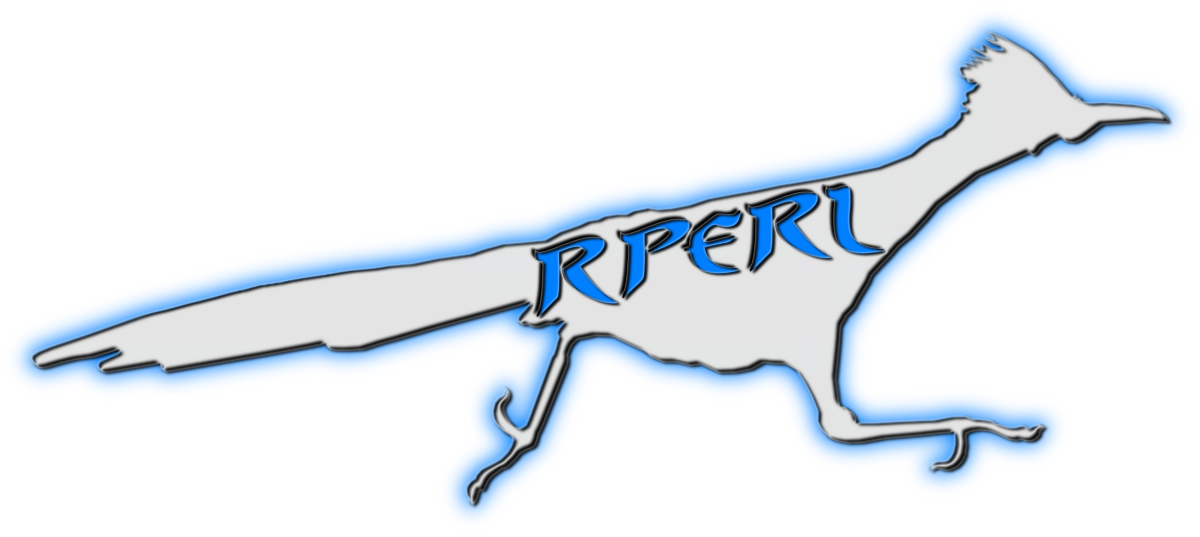
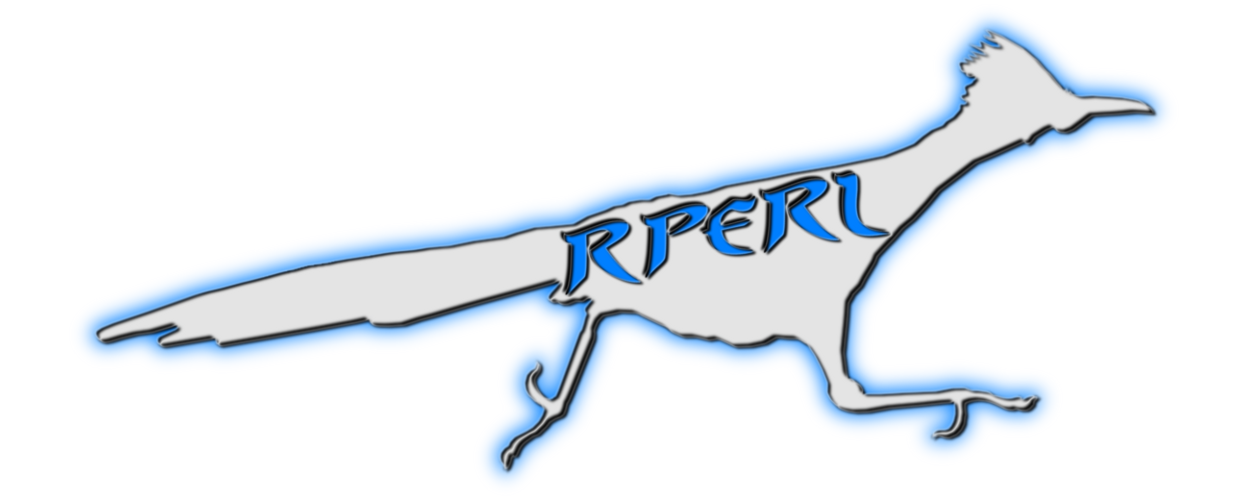
Update Home Page

Changed region(s): [[0.0, 0.03, 0.9867, 0.96]]

diff --git a/index.html b/index.html
@@ -21,16 +21,20 @@
       <div class="inner">
         <h1>RPerl.org</h1>
         <h2>Running Perl 5.  Faster.</h2>
-<!-- #        <img class="centered_h" src="images/roadrunner.png" width="100%"> -->
-        <img class="centered_h" src="images/roadrunner.png">
-        <a href="https://github.com/wbraswell/rperl" class="button_github"><small>View project on</small>GitHub</a>
+        <img class="centered_h" src="images/roadrunner.png" width="100%">
+        <a href="https://github.com/wbraswell/rperl" class="button_github"><small>Free & Open Source on&nbsp;</small>GitHub</a>
       </div>
     </header>
 
     <div id="content-wrapper">
       <div class="inner clearfix">
         <section id="main-content">
-          <h1> <a name="the-rperl-compiler" class="anchor" href="#the-rperl-compiler"><span class="octicon octicon-link"></span></a>Latest News</h1>
+          <h1> <a name="welcome" class="anchor" href="#welcome"><span class="octicon octicon-link"></span></a>Welcome!</h1>
+            <p>You've found the official Internet home of the RPerl compiler software.</p>
+            <p>If this is your first visit, please click the FAQ question mark button on the right.</p><br><br>
+          <h1> <a name="latest_news" class="anchor" href="#latest_news"><span class="octicon octicon-link"></span></a>Latest News</h1>
+            <h2>October 15th, 2013: Frequently Asked Questions Added</h2>
+                <p>Look for the FAQ question mark button on the right.</p>
             <h2>October 3rd, 2013: RPerl Website Goes Live!</h2>
                 <p>We are proud to annouce the initial beta release of the RPerl.org website.  Thank you for visiting!</p>
             <h2>June 30th, 2013: RPerl Demo Reaches 200x Speedup</h2>
@@ -38,31 +42,14 @@
             <h2>June 3rd-5th, 2013: YAPC Perl Conference In Austin</h2>
                 <p>The whole Perl 11 crew came together in Austin for the annual YAPC::NA conference.  The need for RPerl is strongly reinforced.</p>
             <h2>January 1st, 2013: RPerl Development Begins</h2>
-                <p>RPerl is a New Year's Resolution.  Maybe it will also be a Christmas present.</p>
-
-
-          <h1> <a name="the-rperl-compiler" class="anchor" href="#the-rperl-compiler"><span class="octicon octicon-link"></span></a>The RPerl Compiler</h1>
-
-<p>RPerl is an implementation of the Perl 11 philosophy (perl11.org) in the form of an optimizing Perl 5 compiler.</p>
-
-<p>RPerl translates a low-magic subset of the Perl 5 language into equivalent C/C++ code utilizing Perl data structures, capable of being called directly from Perl 5 code using the Inline::C and Inline::CPP modules.  Any existing C/C++ compiler may be used to compile and optimize the resulting C/C++ code.</p>
-
-<p>RPerl follows the naming convention of RPython, in that each implements a restricted sub-set of their respective parent language, thus RPerl stands for Restricted Perl.  It is hoped that RPerl will also eventually come to stand for Revolutionary Perl. </p>
-
-<p>The RPerl development board may be found on Trello here:</p>
-
-<p><a href="https://trello.com/board/austin-pm-rperl-development/51b6b97215f60f9460006538">https://trello.com/board/austin-pm-rperl-development/51b6b97215f60f9460006538</a></p>
-
-<p>The RPerl source code repository may be found on Github here:</p>
-
-<p><a href="https://github.com/wbraswell/rperl/">https://github.com/wbraswell/rperl/</a></p>
-
-<p>RPerl is copyright (c) 2013, William N. Braswell, Jr.
-Copyleft, All Rights Reversed.</p>
-
-<p>RPerl is made available under the same terms as Perl itself:</p>
-
-<p><a href="http://dev.perl.org/licenses/">http://dev.perl.org/licenses/</a></p>
+                <p>RPerl is a New Year's Resolution.  Maybe it will also be a Christmas present.</p><br><br>
+          <h1> <a name="contact_us" class="anchor" href="#contact_us"><span class="octicon octicon-link"></span></a>Contact Us</h1>
+            <h2>E-Mail</h2>
+                <p>willthechill AT hushmail DOT com</p>
+            <h2>Perl Monks</h2>
+                <p>Send private /msg to <a href="http://perlmonks.com/?node_id=626079">Will_the_Chill</a></p>
+            <h2>IRC</h2>
+                <p>Will_the_Chill in #perl11 on irc.perl.org</p>
         </section>
 
         <aside id="sidebar">
@@ -76,10 +63,16 @@ Copyleft, All Rights Reversed.</p>
           <hr/>
           <a href="the_book_of_rperl.html" class="button_the_book_of_rperl">
             The Book Of RPerl
+          <a href="https://trello.com/board/austin-pm-rperl-development/51b6b97215f60f9460006538" class="button_blank">
+            <div class="centered_outer"><div class="centered_inner"><p>
+            <small>Project Management on</small>
+            Trello.com
+            </p></div></div>
+          </a>
           </a>
           <a href="http://perl11.org" class="button_blank">
             <div class="centered_outer"><div class="centered_inner"><p>
-            <small>Visit</small>
+            <small>Affiliated with</small>
             Perl 1 1 .org
             </p></div></div>
           </a>

diff --git a/faq.html b/faq.html
@@ -21,8 +21,8 @@
       <div class="inner">
         <h1>Frequently Asked Questions</h1>
         <h2>Everything You Ever Wanted To Know About RPerl.</h2>
-        <img class="centered_h" src="images/question_mark.png">
-        <a href="https://github.com/wbraswell/rperl" class="button_github"><small>View project on</small>GitHub</a>
+        <img class="centered_h" src="images/question_mark.png" width="100%">
+        <a href="https://github.com/wbraswell/rperl" class="button_github"><small>Free & Open Source on&nbsp;</small>GitHub</a>
       </div>
     </header>
 
@@ -63,7 +63,7 @@ A: Normal computer users will like running RPerl apps because it will empower th
 
 <a name="faq_what" class="anchor" href="#faq_what"></a>
 <h3>Q: What is RPerl?</h3>
-A: RPerl is a computer programming language, based on the popular Perl 5 programming language.  RPerl gives software developers a compiler to make their apps run really fast on parallel computing platforms like multi-core processors, the cloud, clusters, and supercomputers.  RPerl stands for Restricted Perl, in that we restrict our use of Perl to those parts which can be made to run fast.  RPerl stands for Revolutionary Perl, in that we hope RPerl's speed will revolutionize the software development industry.  RPerl might even stand for Roadrunner Perl, in that it RUNS REALLY FAST.
+A: RPerl is a computer programming language, based on the popular Perl 5 programming language.  RPerl gives software developers a compiler to make their apps run really fast on parallel computing platforms like multi-core processors, the cloud, clusters, and supercomputers.  RPerl stands for Restricted Perl, in that we restrict our use of Perl to those parts which can be made to run fast.  RPerl also stands for Revolutionary Perl, in that we hope RPerl's speed will revolutionize the software development industry.  RPerl might even stand for Roadrunner Perl, in that it RUNS REALLY FAST.
 
 <a name="faq_when" class="anchor" href="#faq_when"></a>
 <h3>Q: When will RPerl v1.0 be released?</h3>
@@ -162,7 +162,7 @@ A: We are currently seeking funding in the form of private investment and grants
           </a>
           <a href="http://perl11.org" class="button_blank">
             <div class="centered_outer"><div class="centered_inner"><p>
-            <small>Visit</small>
+            <small>Affiliated with</small>
             Perl 1 1 .org
             </p></div></div>
           </a>

diff --git a/stylesheets/stylesheet.css b/stylesheets/stylesheet.css
@@ -90,7 +90,7 @@ header h2 {
   font-weight: normal;
   line-height: 1.3;
 /*  width: 540px; */
-  width: 840px;
+/*  width: 840px; */
   letter-spacing: 0;
 }
 
@@ -98,7 +98,8 @@ header h2 {
   text-align: justify;  /* justify all text unless otherwise listed as left-align  */
   position: relative;
 /*  width: 940px; */
-  width: 1240px;
+/*  width: 1240px; */
+  width: 1250px;
   margin: 0 auto;
 }
 
@@ -109,7 +110,7 @@ header h2 {
 
 #main-content {
 /*  width: 690px; */
-  width: 990px;
+  width: 975px;
   float: left;
 }
 
@@ -118,8 +119,8 @@ header h2 {
 }
 
 aside#sidebar {
-  width: 200px;
-  padding-left: 20px;
+  width: 250px;
+  padding-left: 10px;
   min-height: 504px;
   float: right;
   background: transparent url(../images/sidebar-bg.jpg) 0 0 no-repeat;
@@ -228,14 +229,14 @@ aside a.button_download {
 
 /* BUTTON, HOME */
 a.button_home {
-  width: 200px;
-/*  height: 95px; */
+  width: 250px;
+/*  height: 100px; */
 /*  line-height: 1.2; */
   font-size: 21px;
   color: #000;
 /*  padding-left: 10px; /* replaced by text-align:center; below */
   text-align: center;
-  padding-top: 90px;
+  padding-top: 100px;
   font-family: 'Architects Daughter', 'Helvetica Neue', Helvetica, Arial, serif; 
 }
 a.button_home small {
@@ -256,8 +257,8 @@ aside a.button_home {
 
 /* BUTTON, FAQ */
 a.button_faq {
-  width: 200px;
-/*  height: 95px; */
+  width: 250px;
+/*  height: 100px; */
 /*  line-height: 1.2; */
   font-size: 21px;
   color: #000;
@@ -284,14 +285,14 @@ aside a.button_faq {
 
 /* BUTTON, THE BOOK OF RPERL */
 a.button_the_book_of_rperl {
-  width: 200px;
-/*  height: 115px; */
+  width: 250px;
+/*  height: 100px; */
 /*  line-height: 1.2; */
   font-size: 21px;
   color: #000;
 /*  padding-left: 10px; /* replaced by text-align:center; below */
   text-align: center;
-  padding-top: 115px;
+  padding-top: 100px;
   font-family: 'Architects Daughter', 'Helvetica Neue', Helvetica, Arial, serif; 
 }
 a.button_the_book_of_rperl small {

diff --git a/the_book_of_rperl.html b/the_book_of_rperl.html
@@ -21,9 +21,8 @@
       <div class="inner">
         <h1>The Book Of RPerl</h1>
         <h2>True Legends In Programming.</h2>
-<!-- #        <img class="centered_h" src="images/sword_wand.png" width="100%"> -->
-        <img class="centered_h" src="images/sword_wand.png">
-        <a href="https://github.com/wbraswell/rperl" class="button_github"><small>View project on</small>GitHub</a>
+        <img class="centered_h" src="images/sword_wand.png" width="100%"> 
+        <a href="https://github.com/wbraswell/rperl" class="button_github"><small>Free & Open Source on&nbsp;</small>GitHub</a>
       </div>
     </header>
 
@@ -198,7 +197,7 @@ HTAAOF Brothers,<br>
           </a>
           <a href="http://perl11.org" class="button_blank">
             <div class="centered_outer"><div class="centered_inner"><p>
-            <small>Visit</small>
+            <small>Affiliated with</small>
             Perl 1 1 .org
             </p></div></div>
           </a>
